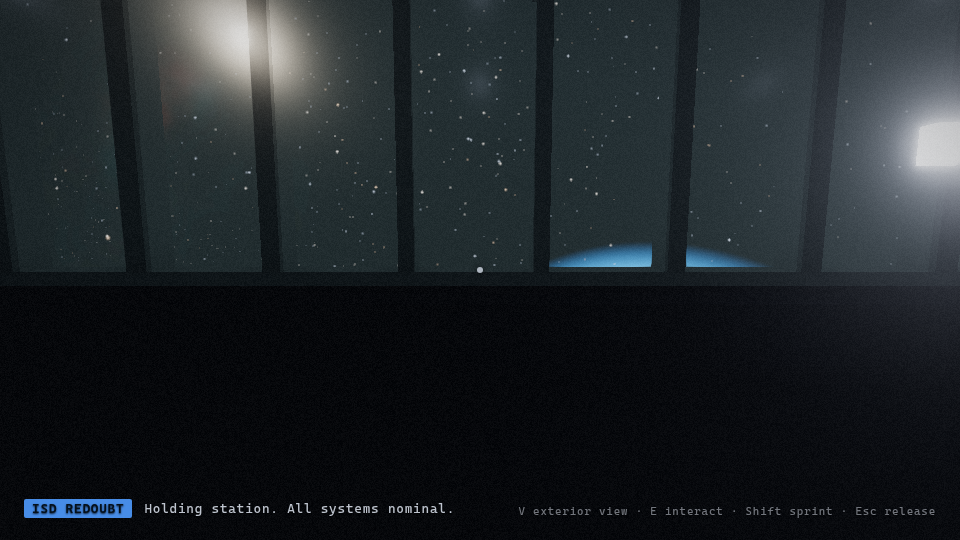
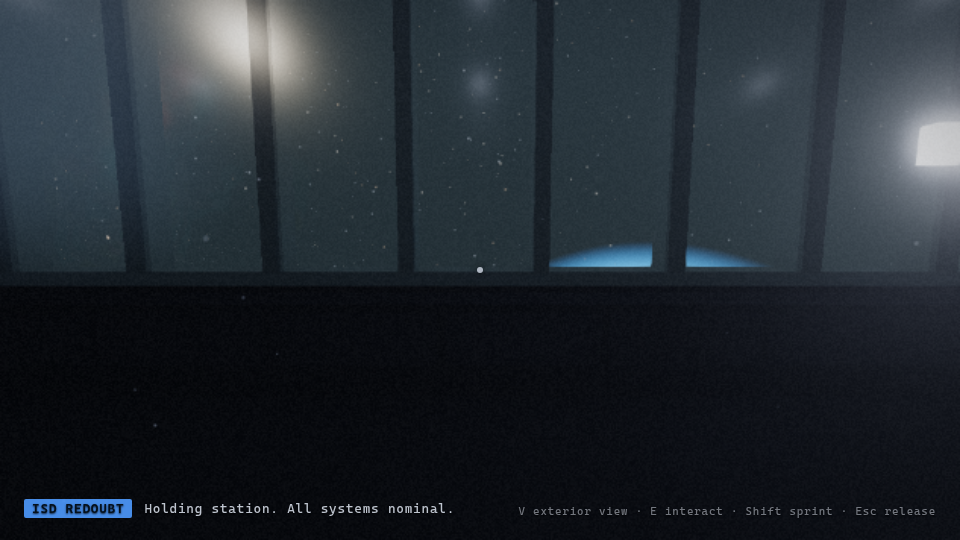
Mobile render profile only for touch devices (small desktop windows keep full quality)

diff --git a/src/main.js b/src/main.js
@@ -31,7 +31,7 @@ const timings = {};
 // ---------------------------------------------------------------------------
 const canvas = document.getElementById("view");
 const TOUCH = isTouchDevice();
-const MOBILE = TOUCH || Math.min(window.innerWidth, window.innerHeight) < 620;
+const MOBILE = TOUCH; // render profile follows the input class, not the window size
 if (TOUCH) document.body.classList.add("touch");
 const renderer = new THREE.WebGLRenderer({ canvas, antialias: false, powerPreference: "high-performance", stencil: false });
 renderer.setPixelRatio(Math.min(window.devicePixelRatio, MOBILE ? 1.0 : 1.5));
